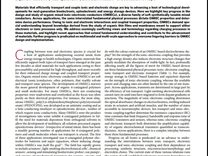
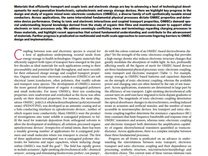
News: crop the old site's black frame from eight lead images
Eight paper-post lead images carried a thin black border from the Squarespace export, which showed as a heavy box inside the image hairline and in the news thumbnails and share cards. Crop 7 px from every side, update image_width/image_height to match, and regenerate those eight thumbnails.

diff --git a/_posts/2020-01-29-new-jove-video-article-led-by-the-shull-group-and-our-own.md b/_posts/2020-01-29-new-jove-video-article-led-by-the-shull-group-and-our-own.md
@@ -4,8 +4,8 @@ date: 2020-01-29
 kind: paper
 image: /assets/img/news/2020-01-29-new-jove-video-article-led-by-the-shull-group-and-our-own.jpg
 link: https://www.jove.com/video/60584/sample-preparation-quartz-crystal-microbalance-measurements-protein
-image_width: 1086
-image_height: 1338
+image_width: 1072
+image_height: 1324
 redirect_from:
   - /new-blog/2020/1/29/new-jove-video-article-led-by-the-shull-group-and-our-own-graduate-student-emily/
   - /new-blog/2020/1/29/new-jove-video-article-led-by-the-shull-group-and-our-own-graduate-student-emily

diff --git a/_posts/2021-08-30-bryan-and-reem-collaborated-on-a-published-study-in-journal.md b/_posts/2021-08-30-bryan-and-reem-collaborated-on-a-published-study-in-journal.md
@@ -4,8 +4,8 @@ date: 2021-08-30
 kind: paper
 image: /assets/img/news/2021-08-30-bryan-and-reem-collaborated-on-a-published-study-in-journal.jpg
 link: https://pubs.acs.org/doi/abs/10.1021/jacs.1c03516
-image_width: 1130
-image_height: 1388
+image_width: 1116
+image_height: 1374
 redirect_from:
   - /new-blog/2021/8/30/bryan-and-reem-collaborated-on-a-published-study-in-journal-of-the-american-chemical-society/
   - /new-blog/2021/8/30/bryan-and-reem-collaborated-on-a-published-study-in-journal-of-the-american-chemical-society

diff --git a/_posts/2019-08-19-our-post-doc-bryan-recently-reviewed-mixed-ionicelectronic.md b/_posts/2019-08-19-our-post-doc-bryan-recently-reviewed-mixed-ionicelectronic.md
@@ -4,8 +4,8 @@ date: 2019-08-19
 kind: paper
 image: /assets/img/news/2019-08-19-our-post-doc-bryan-recently-reviewed-mixed-ionicelectronic.jpg
 link: https://www.nature.com/articles/s41563-019-0435-z
-image_width: 1079
-image_height: 1361
+image_width: 1065
+image_height: 1347
 redirect_from:
   - /new-blog/2019/8/19/our-post-doc-bryan-recently-reviewed-mixed-ionicelectronic-conductors-for-naturematerials/
   - /new-blog/2019/8/19/our-post-doc-bryan-recently-reviewed-mixed-ionicelectronic-conductors-for-naturematerials

diff --git a/_posts/2019-12-19-self-aligned-laser-cut-organic-electrochemical-transistors.md b/_posts/2019-12-19-self-aligned-laser-cut-organic-electrochemical-transistors.md
@@ -4,8 +4,8 @@ date: 2019-12-19
 kind: paper
 image: /assets/img/news/2019-12-19-self-aligned-laser-cut-organic-electrochemical-transistors.jpg
 link: https://iopscience.iop.org/article/10.1088/2058-8585/ab63a1
-image_width: 798
-image_height: 1112
+image_width: 784
+image_height: 1098
 redirect_from:
   - /new-blog/2019/12/19/self-aligned-laser-cut-organic-electrochemical-transistors-in-iop-science/
   - /new-blog/2019/12/19/self-aligned-laser-cut-organic-electrochemical-transistors-in-iop-science

diff --git a/_posts/2020-06-24-bryan-and-reem-also-have-published-a-review-article.md b/_posts/2020-06-24-bryan-and-reem-also-have-published-a-review-article.md
@@ -4,8 +4,8 @@ date: 2020-06-24
 kind: paper
 image: /assets/img/news/2020-06-24-bryan-and-reem-also-have-published-a-review-article.jpg
 link: https://onlinelibrary.wiley.com/doi/full/10.1002/adma.201908047
-image_width: 928
-image_height: 1226
+image_width: 914
+image_height: 1212
 redirect_from:
   - /new-blog/2020/6/24/bryan-and-reem-also-have-published-a-review-article-in-advanced-materials/
   - /new-blog/2020/6/24/bryan-and-reem-also-have-published-a-review-article-in-advanced-materials

diff --git a/_posts/2021-08-30-bryans-review-published-in-annual-reviews-of-materials.md b/_posts/2021-08-30-bryans-review-published-in-annual-reviews-of-materials.md
@@ -4,8 +4,8 @@ date: 2021-08-30
 kind: paper
 image: /assets/img/news/2021-08-30-bryans-review-published-in-annual-reviews-of-materials.jpg
 link: https://www.annualreviews.org/doi/abs/10.1146/annurev-matsci-080619-101319
-image_width: 1178
-image_height: 1378
+image_width: 1164
+image_height: 1364
 redirect_from:
   - /new-blog/2021/8/30/bryans-review-published-in-annual-reviews-of-materials-research/
   - /new-blog/2021/8/30/bryans-review-published-in-annual-reviews-of-materials-research

diff --git a/_posts/2021-05-12-xudongs-nature-communications-paper-featured-in-northwestern.md b/_posts/2021-05-12-xudongs-nature-communications-paper-featured-in-northwestern.md
@@ -4,8 +4,8 @@ date: 2021-05-12
 kind: paper
 image: /assets/img/news/2021-05-12-xudongs-nature-communications-paper-featured-in-northwestern.jpg
 link: https://www.nature.com/articles/s41467-021-22680-5
-image_width: 1312
-image_height: 1440
+image_width: 1298
+image_height: 1426
 redirect_from:
   - /new-blog/2021/5/12/xudongs-nature-communications-paper-featured-in-northwestern-now/
   - /new-blog/2021/5/12/xudongs-nature-communications-paper-featured-in-northwestern-now

diff --git a/_posts/2020-06-24-our-lab-has-published-two-review-papers-recently.md b/_posts/2020-06-24-our-lab-has-published-two-review-papers-recently.md
@@ -4,8 +4,8 @@ date: 2020-06-24
 kind: paper
 image: /assets/img/news/2020-06-24-our-lab-has-published-two-review-papers-recently.jpg
 link: https://pubs.acs.org/doi/abs/10.1021/acs.chemmater.0c00767
-image_width: 998
-image_height: 1320
+image_width: 984
+image_height: 1306
 redirect_from:
   - /new-blog/2020/6/24/our-lab-has-published-two-review-papers-recently/
   - /new-blog/2020/6/24/our-lab-has-published-two-review-papers-recently
